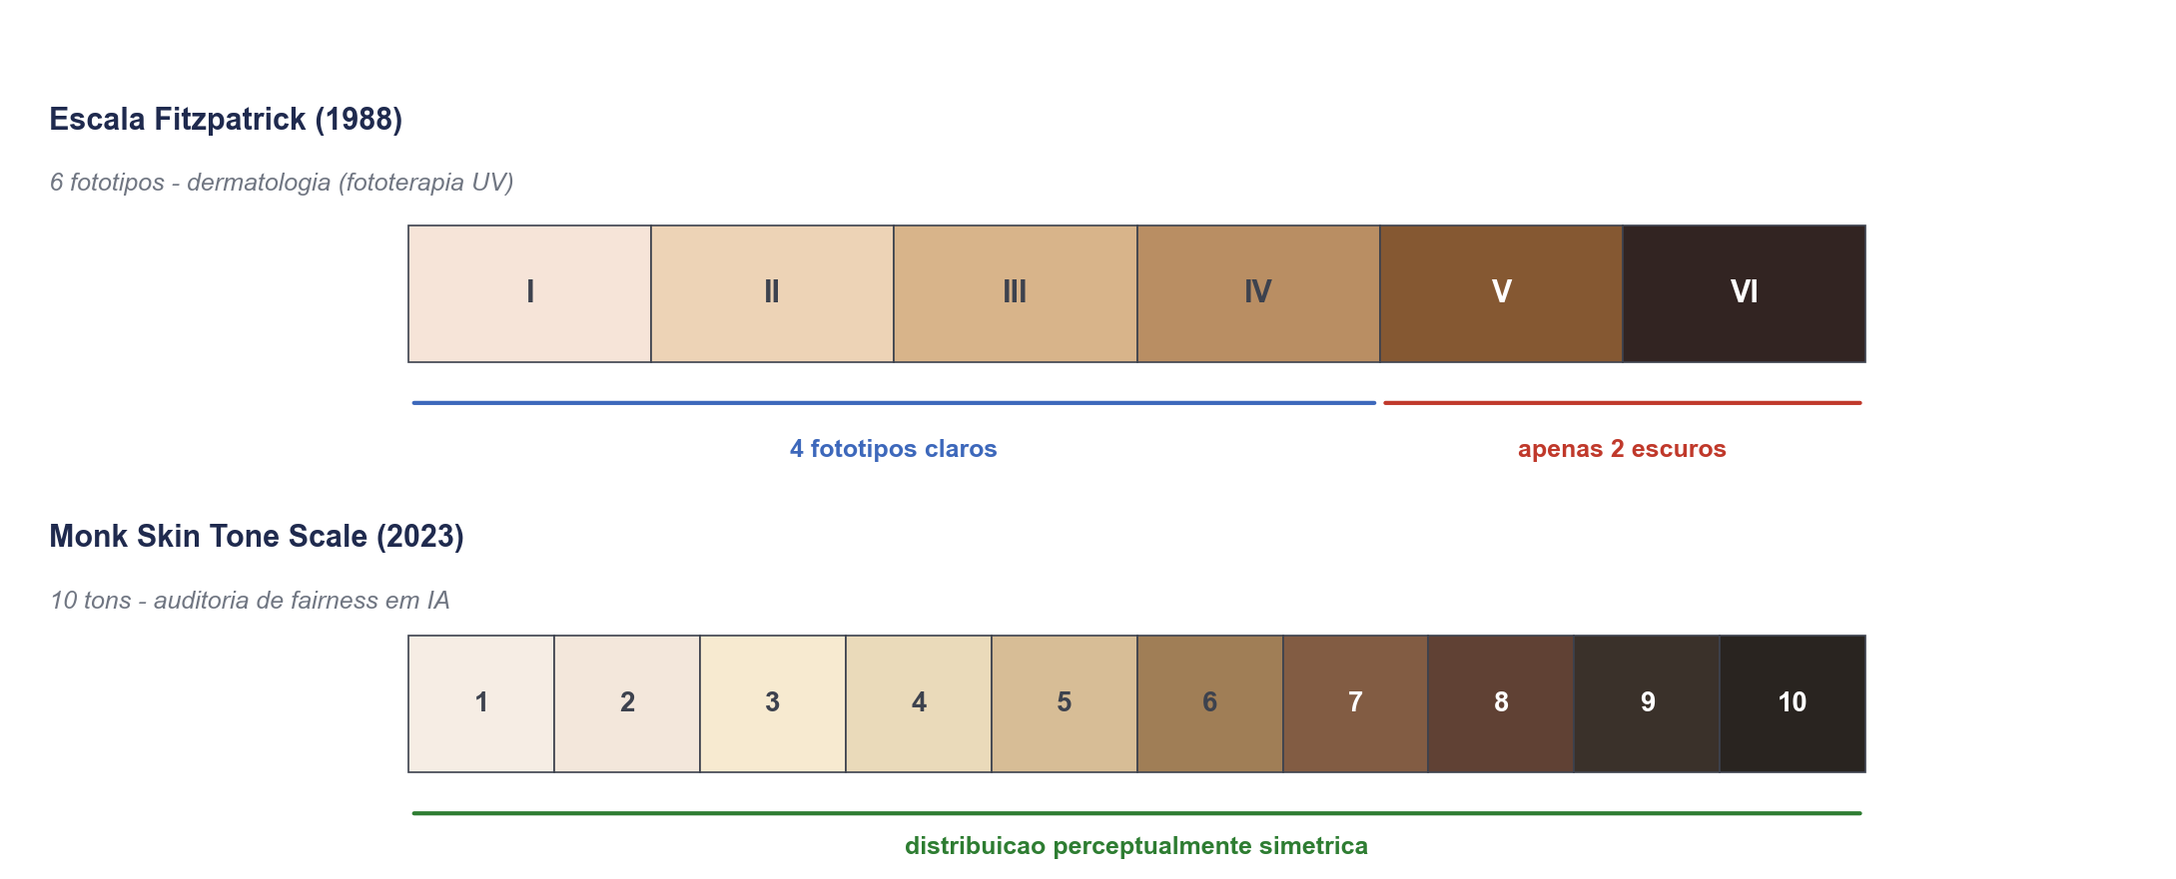
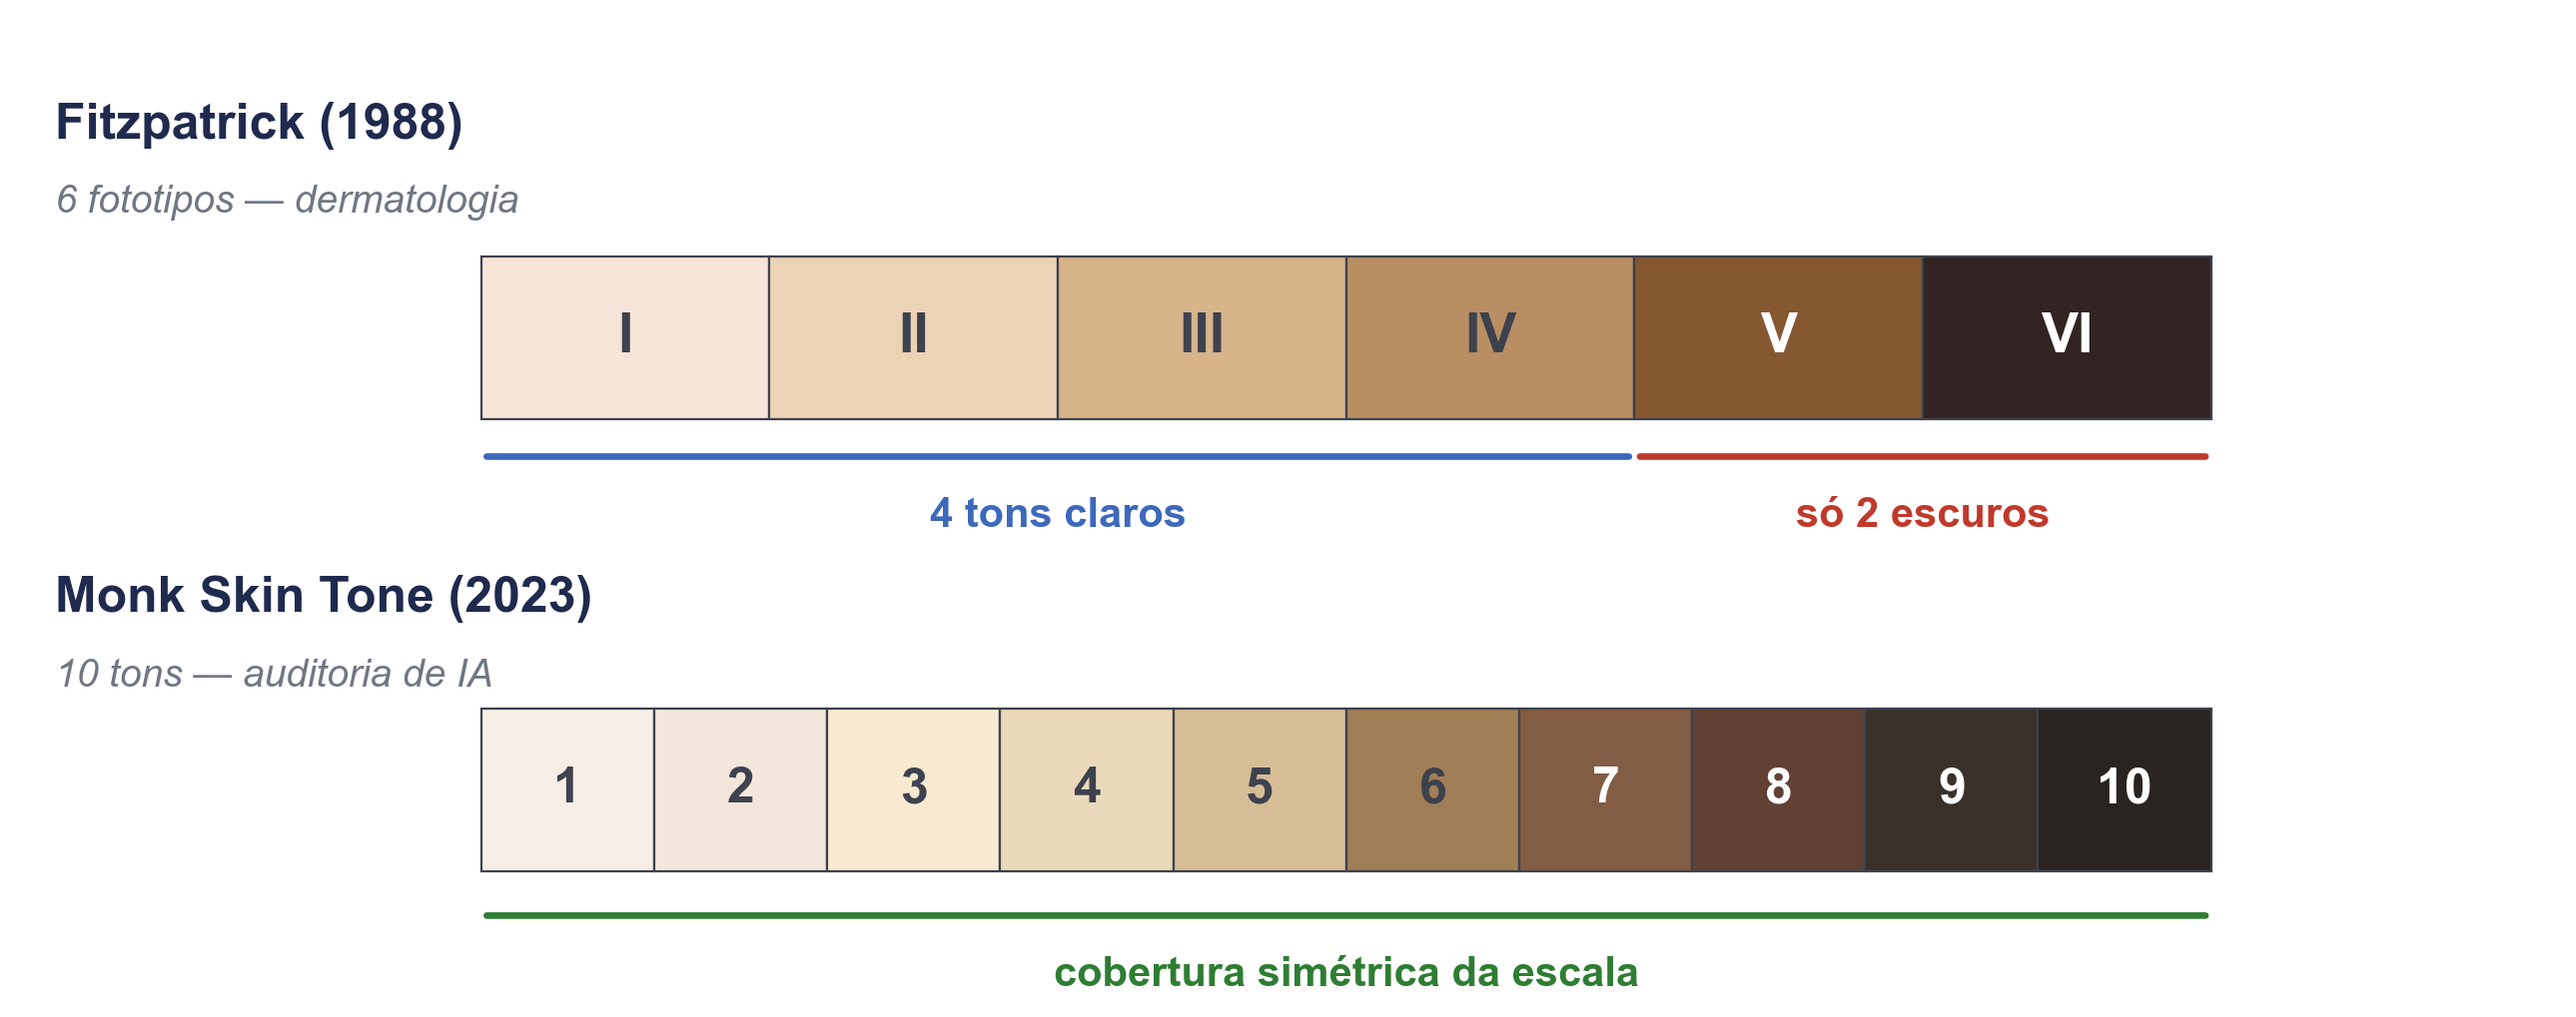
docs: refina fig_fitzpatrick_vs_mst — fontes maiores, textos simplificados, acentos PT-BR
- figsize ampliado (11x4.5 -> 13x5.2), fontes elevadas:
    titulos  11 -> 18 pt
    rotulos  9  -> 15 pt
    algarismos (I-VI, 1-10) 10-11 -> 18-20 pt
- Textos simplificados e com acentos corretos:
    "distribuicao perceptualmente simetrica" -> "cobertura simetrica da escala"
    "4 fototipos claros" -> "4 tons claros"
    "apenas 2 escuros" -> "so 2 escuros"
    "10 tons - auditoria de fairness em IA" -> "10 tons -- auditoria de IA"
    "6 fototipos - dermatologia (fototerapia UV)" -> "6 fototipos -- dermatologia"
- Separador tipografico "--" (travessao) em lugar de hifen simples.

diff --git a/docs/ativo/_gerar_figuras_tese.py b/docs/ativo/_gerar_figuras_tese.py
@@ -368,74 +368,75 @@ FITZ_HEX = ["#F6E4D8", "#EDD3B6", "#D8B48A", "#B98E63", "#855832", "#322422"]
 
 
 def gerar_fig_fitzpatrick_vs_mst():
-    """Compara escalas Fitzpatrick (6, assimetrica) e MST (10, simetrica)."""
+    """Compara escalas Fitzpatrick (6, assimetrica) e MST (10, simetrica).
+
+    Texto simplificado, com acentuacao PT-BR; dimensionamento ampliado
+    para leitura confortavel em projecao de defesa.
+    """
     from matplotlib.patches import Rectangle
 
-    fig, ax = plt.subplots(figsize=(11, 4.5), dpi=DPI)
+    fig, ax = plt.subplots(figsize=(13, 5.2), dpi=DPI)
     ax.set_xlim(0, 22)
-    ax.set_ylim(0, 6)
+    ax.set_ylim(-0.4, 6.2)
     ax.axis("off")
 
     # ---- Fitzpatrick (linha superior) ----
-    ax.text(0.3, 5.2, "Escala Fitzpatrick (1988)",
-            fontsize=11, fontweight="bold", color=NAVY, ha="left")
-    ax.text(0.3, 4.75, "6 fototipos - dermatologia (fototerapia UV)",
-            fontsize=9, style="italic", color=GRAY_MD, ha="left")
+    ax.text(0.3, 5.4, "Fitzpatrick (1988)",
+            fontsize=18, fontweight="bold", color=NAVY, ha="left")
+    ax.text(0.3, 4.90, "6 fototipos — dermatologia",
+            fontsize=14, style="italic", color=GRAY_MD, ha="left")
 
     fitz_w = 2.5
     fitz_x0 = 4.0
     fitz_y = 3.5
-    fitz_h = 1.0
+    fitz_h = 1.1
     for i, hexcolor in enumerate(FITZ_HEX):
         x = fitz_x0 + i * fitz_w
         rect = Rectangle((x, fitz_y), fitz_w, fitz_h,
-                         facecolor=hexcolor, edgecolor=GRAY_DK, linewidth=0.6)
+                         facecolor=hexcolor, edgecolor=GRAY_DK, linewidth=0.8)
         ax.add_patch(rect)
-        # Rotulo I-VI
         roman = ["I", "II", "III", "IV", "V", "VI"][i]
         text_color = "white" if i >= 4 else GRAY_DK
         ax.text(x + fitz_w / 2, fitz_y + fitz_h / 2, roman,
-                ha="center", va="center", fontsize=11, fontweight="bold",
+                ha="center", va="center", fontsize=20, fontweight="bold",
                 color=text_color)
 
-    # Colchetes de assimetria
-    # 4 claros (I-IV)
-    ax.annotate("", xy=(fitz_x0, 3.2), xytext=(fitz_x0 + 4 * fitz_w, 3.2),
-                arrowprops=dict(arrowstyle="-", color=BLUE_MID, lw=1.5))
-    ax.text(fitz_x0 + 2 * fitz_w, 2.85, "4 fototipos claros",
-            ha="center", va="center", fontsize=9, fontweight="bold", color=BLUE_MID)
-    # 2 escuros (V-VI)
-    ax.annotate("", xy=(fitz_x0 + 4 * fitz_w, 3.2),
-                xytext=(fitz_x0 + 6 * fitz_w, 3.2),
-                arrowprops=dict(arrowstyle="-", color=RED, lw=1.5))
-    ax.text(fitz_x0 + 5 * fitz_w, 2.85, "apenas 2 escuros",
-            ha="center", va="center", fontsize=9, fontweight="bold", color=RED)
+    # Colchetes de assimetria (4 claros vs apenas 2 escuros)
+    ax.annotate("", xy=(fitz_x0, 3.25), xytext=(fitz_x0 + 4 * fitz_w, 3.25),
+                arrowprops=dict(arrowstyle="-", color=BLUE_MID, lw=2.4))
+    ax.text(fitz_x0 + 2 * fitz_w, 2.85, "4 tons claros",
+            ha="center", va="center", fontsize=15, fontweight="bold", color=BLUE_MID)
+    ax.annotate("", xy=(fitz_x0 + 4 * fitz_w, 3.25),
+                xytext=(fitz_x0 + 6 * fitz_w, 3.25),
+                arrowprops=dict(arrowstyle="-", color=RED, lw=2.4))
+    ax.text(fitz_x0 + 5 * fitz_w, 2.85, "só 2 escuros",
+            ha="center", va="center", fontsize=15, fontweight="bold", color=RED)
 
     # ---- MST (linha inferior) ----
-    ax.text(0.3, 2.15, "Monk Skin Tone Scale (2023)",
-            fontsize=11, fontweight="bold", color=NAVY, ha="left")
-    ax.text(0.3, 1.7, "10 tons - auditoria de fairness em IA",
-            fontsize=9, style="italic", color=GRAY_MD, ha="left")
+    ax.text(0.3, 2.20, "Monk Skin Tone (2023)",
+            fontsize=18, fontweight="bold", color=NAVY, ha="left")
+    ax.text(0.3, 1.70, "10 tons — auditoria de IA",
+            fontsize=14, style="italic", color=GRAY_MD, ha="left")
 
     mst_w = 1.5
     mst_x0 = 4.0
-    mst_y = 0.5
-    mst_h = 1.0
+    mst_y = 0.45
+    mst_h = 1.1
     for i, hexcolor in enumerate(MST_HEX):
         x = mst_x0 + i * mst_w
         rect = Rectangle((x, mst_y), mst_w, mst_h,
-                         facecolor=hexcolor, edgecolor=GRAY_DK, linewidth=0.6)
+                         facecolor=hexcolor, edgecolor=GRAY_DK, linewidth=0.8)
         ax.add_patch(rect)
         text_color = "white" if i >= 6 else GRAY_DK
         ax.text(x + mst_w / 2, mst_y + mst_h / 2, str(i + 1),
-                ha="center", va="center", fontsize=10, fontweight="bold",
+                ha="center", va="center", fontsize=18, fontweight="bold",
                 color=text_color)
 
     # Barra de distribuicao simetrica
-    ax.annotate("", xy=(mst_x0, 0.2), xytext=(mst_x0 + 10 * mst_w, 0.2),
-                arrowprops=dict(arrowstyle="-", color=GREEN, lw=1.5))
-    ax.text(mst_x0 + 5 * mst_w, -0.05, "distribuicao perceptualmente simetrica",
-            ha="center", va="center", fontsize=9, fontweight="bold", color=GREEN)
+    ax.annotate("", xy=(mst_x0, 0.15), xytext=(mst_x0 + 10 * mst_w, 0.15),
+                arrowprops=dict(arrowstyle="-", color=GREEN, lw=2.4))
+    ax.text(mst_x0 + 5 * mst_w, -0.25, "cobertura simétrica da escala",
+            ha="center", va="center", fontsize=15, fontweight="bold", color=GREEN)
 
     plt.tight_layout()
     out = OUT_DIR / "fig_fitzpatrick_vs_mst.png"
